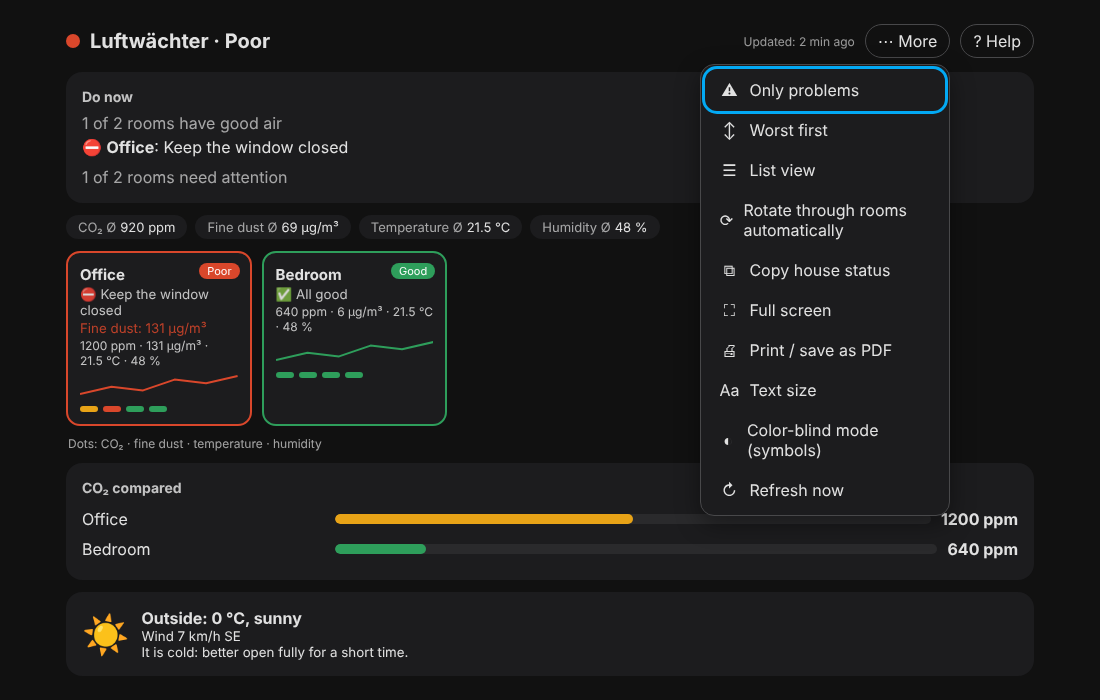
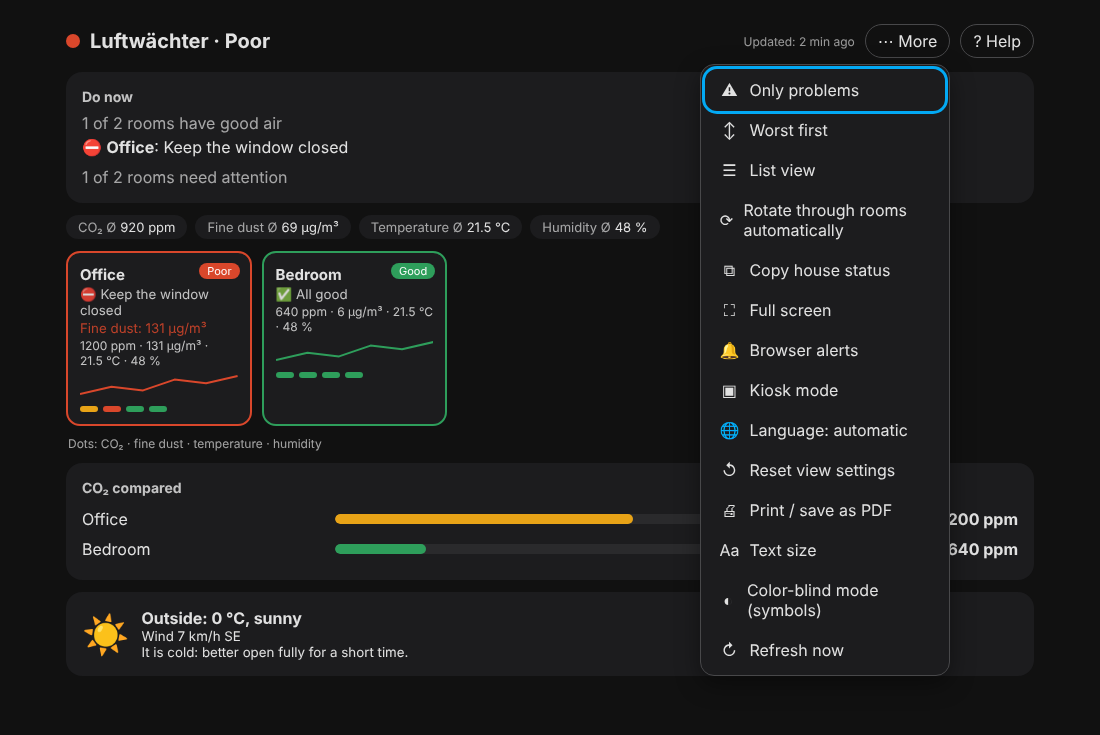
0.12.0: kiosk mode, browser alerts, language choice, reset view, storage fallback, worst-room sensor, foldable FAQ, CITATION
Claude-Session: https://claude.ai/code/session_01W38UNCWRvMYfcRr6jVyi8m

diff --git a/custom_components/luftwaechter/frontend/luftwaechter-panel.js b/custom_components/luftwaechter/frontend/luftwaechter-panel.js
@@ -11,7 +11,7 @@ const UI = {
     cover_open: "Auf", cover_stop: "Stopp", cover_close: "Zu", allgood: "Alle Werte im grünen Bereich.",
     isPoor: "ist schlecht", isFair: "ist mittel", tooHigh: "zu hoch", tooLow: "zu niedrig", limit: "Grenze",
     attention: "Jetzt tun", nothing: "Nichts zu tun, alles in Ordnung.", rooms_n: "{a} von {n} Räumen brauchen Aufmerksamkeit", stale: "Die Daten sind möglicherweise veraltet (letztes Update vor {n} min).",
-    goodOf: "{g} von {n} Räumen haben gute Luft", print: "Drucken / als PDF speichern", kTitle: "Tastenkürzel", kRoom: "Raum wechseln", kBack: "Zurück", kSearch: "Suchen", kSort: "Sortieren", kPin: "Raum anheften", kOnly: "Nur Probleme", kList: "Listenansicht", kCopy: "Hausübersicht kopieren", kMenu: "Menü", kRot: "Räume durchschalten", kFs: "Vollbild", kHelp: "Hilfe", swiped: "Wischen wechselt den Raum", size: "Textgröße", onbTitle: "So kommen Räume ins Panel", onb1: "Weise CO₂-, Feinstaub-, Temperatur- oder Luftfeuchte-Sensoren einem Bereich zu (Einstellungen → Bereiche).", onb2: "Der Raum erscheint automatisch, sobald ein Sensor Werte liefert.", onb3: "Optional: Gib einem Fenstersensor die Geräteklasse „Fenster“, dann bekommst du Lüftungsempfehlungen.", noHouse: "Die Integration Luftwächter wurde nicht gefunden. Einstellungen → Geräte & Dienste → Integration hinzufügen → Luftwächter.", legend: "Punkte: CO₂ · Feinstaub · Temperatur · Luftfeuchte", avgT: "Ø im Haus", ventStart: "Lüftungs-Timer starten ({n} min)", ventRun: "Lüften läuft", ventDone: "Zeit ist um: Fenster jetzt schließen", ventStop: "Abbrechen", fs: "Vollbild", fsExit: "Vollbild beenden", copyAll: "Hausstatus kopieren", trendUp: "Steigend", trendDown: "Fallend", onlyProblems: "Nur Probleme", rank: "CO₂ im Vergleich", rotate: "Räume automatisch durchschalten", csv: "CSV", shortcuts: "Tastatur: ← → Raum wechseln · Esc zurück · / suchen · S sortieren · P anheften · O nur Probleme · V Listenansicht · M Menü · R durchschalten · F Vollbild · H Hilfe", search: "Raum suchen…", noMatch: "Kein Raum gefunden.", listView: "Listenansicht", tileView: "Kachelansicht", soundOn: "Signalton bei Ablauf: an", soundOff: "Signalton bei Ablauf: aus", copyLink: "Link kopieren", mold: "Schimmelgefahr", dew: "Taupunkt", more: "Mehr", refreshNow: "Jetzt aktualisieren", cbMode: "Farbenblind-Modus (Symbole)", sinceFor: "{l} seit {t}", sortCo2: "Höchstes CO₂ zuerst", pin: "Oben anheften", unpin: "Nicht mehr anheften", pinned: "Angeheftet", copy: "Status kopieren", copied: "Kopiert", r6h: "6 h", r24h: "24 h", r7d: "7 Tage", a6h: "vor 6 h", a24h: "vor 24 h", a7d: "vor 7 Tagen", dayU: "Tg", hourU: "h",
+    alerts: "Browser-Hinweise", alertsOn: "Browser-Hinweise: an", alertsDenied: "Browser-Hinweise sind im Browser blockiert", alertBody: "{r}: {l}", kiosk: "Kiosk-Modus", kioskOff: "Kiosk-Modus beenden", langOpt: "Sprache", langAuto: "automatisch", resetView: "Ansicht zurücksetzen", goodOf: "{g} von {n} Räumen haben gute Luft", print: "Drucken / als PDF speichern", kTitle: "Tastenkürzel", kRoom: "Raum wechseln", kBack: "Zurück", kSearch: "Suchen", kSort: "Sortieren", kPin: "Raum anheften", kOnly: "Nur Probleme", kList: "Listenansicht", kCopy: "Hausübersicht kopieren", kMenu: "Menü", kRot: "Räume durchschalten", kFs: "Vollbild", kHelp: "Hilfe", swiped: "Wischen wechselt den Raum", size: "Textgröße", onbTitle: "So kommen Räume ins Panel", onb1: "Weise CO₂-, Feinstaub-, Temperatur- oder Luftfeuchte-Sensoren einem Bereich zu (Einstellungen → Bereiche).", onb2: "Der Raum erscheint automatisch, sobald ein Sensor Werte liefert.", onb3: "Optional: Gib einem Fenstersensor die Geräteklasse „Fenster“, dann bekommst du Lüftungsempfehlungen.", noHouse: "Die Integration Luftwächter wurde nicht gefunden. Einstellungen → Geräte & Dienste → Integration hinzufügen → Luftwächter.", legend: "Punkte: CO₂ · Feinstaub · Temperatur · Luftfeuchte", avgT: "Ø im Haus", ventStart: "Lüftungs-Timer starten ({n} min)", ventRun: "Lüften läuft", ventDone: "Zeit ist um: Fenster jetzt schließen", ventStop: "Abbrechen", fs: "Vollbild", fsExit: "Vollbild beenden", copyAll: "Hausstatus kopieren", trendUp: "Steigend", trendDown: "Fallend", onlyProblems: "Nur Probleme", rank: "CO₂ im Vergleich", rotate: "Räume automatisch durchschalten", csv: "CSV", shortcuts: "Tastatur: ← → Raum wechseln · Esc zurück · / suchen · S sortieren · P anheften · O nur Probleme · V Listenansicht · M Menü · R durchschalten · F Vollbild · H Hilfe", search: "Raum suchen…", noMatch: "Kein Raum gefunden.", listView: "Listenansicht", tileView: "Kachelansicht", soundOn: "Signalton bei Ablauf: an", soundOff: "Signalton bei Ablauf: aus", copyLink: "Link kopieren", mold: "Schimmelgefahr", dew: "Taupunkt", more: "Mehr", refreshNow: "Jetzt aktualisieren", cbMode: "Farbenblind-Modus (Symbole)", sinceFor: "{l} seit {t}", sortCo2: "Höchstes CO₂ zuerst", pin: "Oben anheften", unpin: "Nicht mehr anheften", pinned: "Angeheftet", copy: "Status kopieren", copied: "Kopiert", r6h: "6 h", r24h: "24 h", r7d: "7 Tage", a6h: "vor 6 h", a24h: "vor 24 h", a7d: "vor 7 Tagen", dayU: "Tg", hourU: "h",
     helpTitle: "Was bedeuten die Messwerte?", causes: "Mögliche Ursachen", todo: "Was hilft",
     hCo2: "CO₂ (Kohlendioxid) zeigt, wie verbraucht die Raumluft ist. Wir atmen es aus.",
     cCo2: "Viele Personen im Raum, Schlafen bei geschlossenem Fenster, kleine Räume, geschlossene Türen, Kerzen oder Gasflammen.",
@@ -36,7 +36,7 @@ const UI = {
     cover_open: "Open", cover_stop: "Stop", cover_close: "Close", allgood: "All readings are in the green.",
     isPoor: "is poor", isFair: "is fair", tooHigh: "too high", tooLow: "too low", limit: "Limit",
     attention: "Do now", nothing: "Nothing to do, all good.", rooms_n: "{a} of {n} rooms need attention", stale: "Data may be outdated (last update {n} min ago).",
-    goodOf: "{g} of {n} rooms have good air", print: "Print / save as PDF", kTitle: "Keyboard shortcuts", kRoom: "Switch room", kBack: "Back", kSearch: "Search", kSort: "Sort", kPin: "Pin room", kOnly: "Only problems", kList: "List view", kCopy: "Copy house summary", kMenu: "Menu", kRot: "Rotate rooms", kFs: "Full screen", kHelp: "Help", swiped: "Swipe to change room", size: "Text size", onbTitle: "How rooms get into the panel", onb1: "Assign CO₂, fine dust, temperature or humidity sensors to an area (Settings → Areas).", onb2: "The room appears automatically as soon as a sensor reports values.", onb3: "Optional: give a window sensor the device class \"window\" to get ventilation advice.", noHouse: "The Luftwächter integration was not found. Settings → Devices & services → Add integration → Luftwächter.", legend: "Dots: CO₂ · fine dust · temperature · humidity", avgT: "House average", ventStart: "Start ventilation timer ({n} min)", ventRun: "Ventilating", ventDone: "Time is up: close the window now", ventStop: "Cancel", fs: "Full screen", fsExit: "Exit full screen", copyAll: "Copy house status", trendUp: "Rising", trendDown: "Falling", onlyProblems: "Only problems", rank: "CO₂ compared", rotate: "Rotate through rooms automatically", csv: "CSV", shortcuts: "Keyboard: ← → switch room · Esc back · / search · S sort · P pin · O only problems · V list view · M menu · R rotate · F full screen · H help", search: "Find a room…", noMatch: "No room found.", listView: "List view", tileView: "Tile view", soundOn: "Sound when time is up: on", soundOff: "Sound when time is up: off", copyLink: "Copy link", mold: "Mold risk", dew: "Dew point", more: "More", refreshNow: "Refresh now", cbMode: "Color-blind mode (symbols)", sinceFor: "{l} for {t}", sortCo2: "Highest CO₂ first", pin: "Pin to top", unpin: "Unpin", pinned: "Pinned", copy: "Copy status", copied: "Copied", r6h: "6 h", r24h: "24 h", r7d: "7 days", a6h: "6 h ago", a24h: "24 h ago", a7d: "7 days ago", dayU: "d", hourU: "h",
+    alerts: "Browser alerts", alertsOn: "Browser alerts: on", alertsDenied: "Browser alerts are blocked in the browser", alertBody: "{r}: {l}", kiosk: "Kiosk mode", kioskOff: "Leave kiosk mode", langOpt: "Language", langAuto: "automatic", resetView: "Reset view settings", goodOf: "{g} of {n} rooms have good air", print: "Print / save as PDF", kTitle: "Keyboard shortcuts", kRoom: "Switch room", kBack: "Back", kSearch: "Search", kSort: "Sort", kPin: "Pin room", kOnly: "Only problems", kList: "List view", kCopy: "Copy house summary", kMenu: "Menu", kRot: "Rotate rooms", kFs: "Full screen", kHelp: "Help", swiped: "Swipe to change room", size: "Text size", onbTitle: "How rooms get into the panel", onb1: "Assign CO₂, fine dust, temperature or humidity sensors to an area (Settings → Areas).", onb2: "The room appears automatically as soon as a sensor reports values.", onb3: "Optional: give a window sensor the device class \"window\" to get ventilation advice.", noHouse: "The Luftwächter integration was not found. Settings → Devices & services → Add integration → Luftwächter.", legend: "Dots: CO₂ · fine dust · temperature · humidity", avgT: "House average", ventStart: "Start ventilation timer ({n} min)", ventRun: "Ventilating", ventDone: "Time is up: close the window now", ventStop: "Cancel", fs: "Full screen", fsExit: "Exit full screen", copyAll: "Copy house status", trendUp: "Rising", trendDown: "Falling", onlyProblems: "Only problems", rank: "CO₂ compared", rotate: "Rotate through rooms automatically", csv: "CSV", shortcuts: "Keyboard: ← → switch room · Esc back · / search · S sort · P pin · O only problems · V list view · M menu · R rotate · F full screen · H help", search: "Find a room…", noMatch: "No room found.", listView: "List view", tileView: "Tile view", soundOn: "Sound when time is up: on", soundOff: "Sound when time is up: off", copyLink: "Copy link", mold: "Mold risk", dew: "Dew point", more: "More", refreshNow: "Refresh now", cbMode: "Color-blind mode (symbols)", sinceFor: "{l} for {t}", sortCo2: "Highest CO₂ first", pin: "Pin to top", unpin: "Unpin", pinned: "Pinned", copy: "Copy status", copied: "Copied", r6h: "6 h", r24h: "24 h", r7d: "7 days", a6h: "6 h ago", a24h: "24 h ago", a7d: "7 days ago", dayU: "d", hourU: "h",
     helpTitle: "What do the readings mean?", causes: "Possible causes", todo: "What helps",
     hCo2: "CO₂ (carbon dioxide) shows how stale the room air is. We breathe it out.",
     cCo2: "Many people in the room, sleeping with the window closed, small rooms, closed doors, candles or gas flames.",
@@ -66,9 +66,11 @@ const SCALE = {
 };
 const rooms_ok = (el) => el._rooms().length > 1;
 const esc = (s) => String(s ?? "").replace(/[&<>"']/g, (c) => ({ "&": "&amp;", "<": "&lt;", ">": "&gt;", '"': "&quot;", "'": "&#39;" }[c]));
+const mem = {}; // fallback when the browser blocks localStorage (private window, kiosk profile): settings then last until the page closes
 const store = {
-  get(k) { try { return localStorage.getItem(k); } catch (e) { return null; } },
-  set(k, v) { try { localStorage.setItem(k, v); } catch (e) { /* ignore */ } },
+  get(k) { try { const v = localStorage.getItem(k); if (v !== null) return v; } catch (e) { /* use memory */ } return k in mem ? mem[k] : null; },
+  set(k, v) { mem[k] = v; try { localStorage.setItem(k, v); } catch (e) { /* memory only */ } },
+  remove(k) { delete mem[k]; try { localStorage.removeItem(k); } catch (e) { /* ignore */ } },
 };
 
 class LuftwaechterPanel extends HTMLElement {
@@ -82,6 +84,7 @@ class LuftwaechterPanel extends HTMLElement {
     this._chartKey = "co2";
     this._range = store.get("lw_range") || "24h";
     this._size = parseInt(store.get("lw_size") || "1", 10);
+    this._alerts = store.get("lw_alerts") === "1"; this._kiosk = store.get("lw_kiosk") === "1" || /kiosk/.test(location.hash);
     this._only = store.get("lw_only") === "1";
     this._list = store.get("lw_list") === "1"; this._snd = store.get("lw_snd") === "1"; this._q = ""; this._cb = store.get("lw_cb") === "1"; try { this._pins = JSON.parse(store.get("lw_pins") || "[]"); } catch (e) { this._pins = []; } if (!Array.isArray(this._pins)) this._pins = []; this._menu = false;
     this._help = false;
@@ -125,8 +128,16 @@ class LuftwaechterPanel extends HTMLElement {
     return [ov && many ? b("only", "⚠", t.onlyProblems, this._only) : "", ov && many ? b("sort", "↕", this._sortLabel(t)) : "",
       ov && many ? b("dens", this._list ? "▦" : "☰", this._list ? t.tileView : t.listView) : "", many ? b("rot", "⟳", t.rotate, this._rot) : "",
       ov && rooms.length ? b("copyall", "⧉", t.copyAll) : "", document.fullscreenEnabled ? b("fs", fs ? "🗗" : "⛶", fs ? t.fsExit : t.fs) : "",
-      b("print", "🖨", t.print), b("size", "Aa", t.size), b("cb", "◐", t.cbMode, this._cb), b("refresh", "↻", t.refreshNow)].join("");
+      b("alerts", "🔔", this._alerts ? t.alertsOn : (this._alertDenied ? t.alertsDenied : t.alerts), this._alerts), b("kiosk", "▣", this._kiosk ? t.kioskOff : t.kiosk, this._kiosk), b("lang", "🌐", `${t.langOpt}: ${(store.get("lw_lang") || "").toUpperCase() || t.langAuto}`), b("reset", "↺", t.resetView), b("print", "🖨", t.print), b("size", "Aa", t.size), b("cb", "◐", t.cbMode, this._cb), b("refresh", "↻", t.refreshNow)].join("");
   }
+  _cycleLang() { const o = store.get("lw_lang") || ""; const n = { "": "de", de: "en", en: "" }[o] ?? ""; store.set("lw_lang", n); this._render(); }
+  _setKiosk(on) { this._kiosk = on; store.set("lw_kiosk", on ? "1" : "0"); if (on) { this._size = 2; if (!this._rot && this._rooms().length > 1) { this._rotToggle(); return; } } else { this._size = parseInt(store.get("lw_size") || "1", 10); this._rotStop(); return; } this._render(); }
+  async _toggleAlerts() {
+    if (this._alerts) { this._alerts = false; store.set("lw_alerts", "0"); this._render(); return; }
+    try { const p = typeof Notification === "undefined" ? "denied" : (Notification.permission === "default" ? await Notification.requestPermission() : Notification.permission); this._alerts = p === "granted"; } catch (e) { this._alerts = false; }
+    store.set("lw_alerts", this._alerts ? "1" : "0"); if (!this._alerts) this._alertDenied = true; this._render();
+  }
+  _resetView() { ["lw_size", "lw_sort", "lw_pins", "lw_only", "lw_list", "lw_cb", "lw_lang", "lw_alerts", "lw_kiosk", "lw_room"].forEach((k) => store.remove(k)); this._size = 1; this._sort = "worst"; this._pins = []; this._only = false; this._list = false; this._cb = false; this._alerts = false; this._kiosk = false; this._sel = null; this._menu = false; this._rotStop(); }
   _nextSort() { this._sort = { worst: "name", name: "co2" }[this._sort] || "worst"; store.set("lw_sort", this._sort); this._render(); }
   _pin(key) { const i = this._pins.indexOf(key); if (i < 0) this._pins.push(key); else this._pins.splice(i, 1); store.set("lw_pins", JSON.stringify(this._pins)); this._render(); }
   _sortLabel(t) { return this._sort === "worst" ? t.sortWorst : this._sort === "co2" ? t.sortCo2 : t.sortName; }
@@ -175,7 +186,7 @@ class LuftwaechterPanel extends HTMLElement {
     if (!st) return null;
     return Object.values(st).find((s) => s.entity_id.startsWith("sensor.") && s.attributes && Array.isArray(s.attributes.rooms) && s.attributes.summary) || null;
   }
-  _lang() { const e = this._house(), srv = ((e && e.attributes.lang) || "en").slice(0, 2), mine = ((this._hass && this._hass.language) || "").slice(0, 2); return UI[mine] ? mine : (UI[srv] ? srv : "en"); }
+  _lang() { const ov = store.get("lw_lang"); if (ov && UI[ov]) return ov; const e = this._house(), srv = ((e && e.attributes.lang) || "en").slice(0, 2), mine = ((this._hass && this._hass.language) || "").slice(0, 2); return UI[mine] ? mine : (UI[srv] ? srv : "en"); }
   _attrs() { const e = this._house(); if (!e) return {}; const a = e.attributes, l = this._lang(); return l !== a.lang && a.alt && a.alt[l] ? Object.assign({}, a, a.alt[l], { lang: l }) : a; }
   _t() { return UI[this._lang()] || UI.en; }
   _lim(k) { const l = this._attrs().limits || {}; if (k === "co2" && l.co2) return `< ${l.co2[0]} / < ${l.co2[1]} ppm`; if (k === "pm25" && l.pm25) return `< ${l.pm25[0]} / < ${l.pm25[1]} µg/m³`; return LIM[k]; }
@@ -217,6 +228,7 @@ class LuftwaechterPanel extends HTMLElement {
       if (k === "p" && this._sel) { this._pin(this._sel); return; }
       if (k === "o" && !this._sel) { this._only = !this._only; store.set("lw_only", this._only ? "1" : "0"); this._render(); return; }
       if (k === "/" && !this._sel) { const qi = this.shadowRoot.querySelector("#q"); if (qi) { ev.preventDefault(); qi.focus(); return; } }
+      if (k === "k") { this._setKiosk(!this._kiosk); return; }
       if (k === "c" && !this._sel) { this.shadowRoot.querySelector("#copyall")?.click(); return; }
       if (k === "m") { this._toggleMenu(); return; }
       if (k === "v" && !this._sel) { this._list = !this._list; store.set("lw_list", this._list ? "1" : "0"); this._render(); return; }
@@ -417,6 +429,7 @@ header{position:sticky;top:0;z-index:5;background:var(--primary-background-color
 @media (forced-colors:active){.tile{border:2px solid CanvasText!important}}
 @media (prefers-reduced-motion:reduce){*{animation:none!important;transition:none!important;scroll-behavior:auto!important}}
 .keys table{border-collapse:collapse;width:100%}.keys th{text-align:left;white-space:nowrap;padding:3px 10px 3px 0;font-weight:400}.keys td{padding:3px 0}kbd{font:inherit;font-size:.85em;border:1px solid var(--divider-color,#8886);border-radius:5px;padding:1px 6px;background:var(--card-background-color,#f4f6f8)}
+.kiosk header .tool{opacity:.3}.kiosk header .tool:hover,.kiosk header .tool:focus-visible{opacity:1}.kiosk #help,.kiosk #ventpill,.kiosk #q{display:none}
 @media print{.menuwrap,.tool,.back,#ovl,.chips{display:none!important}.wrap{max-width:none}}
 @media (prefers-reduced-motion:no-preference){.tile,.dev,.chip{transition:filter .15s}}`;
     if (!e) { const has = this._hass && this._hass.states && Object.keys(this._hass.states).length > 5; root.innerHTML = `<style>${css}</style><div class="wrap" role="main">${has ? `<div class="card">${esc(t.noHouse)}</div>` : "<p>…</p>"}</div>`; return; }
@@ -459,7 +472,11 @@ header{position:sticky;top:0;z-index:5;background:var(--primary-background-color
     root.appendChild(this._live);
     const lv = {}; rooms.forEach((r) => { lv[r.key] = r.level; });
     if (this._lvPrev) { const ch = rooms.filter((r) => this._lvPrev[r.key] && this._lvPrev[r.key] !== r.level); if (ch.length) this._live.textContent = ch.map((r) => `${r.name}: ${t[r.level] || t.unknown}`).join(". "); }
+    if (this._alerts && this._lvPrev && document.hidden && typeof Notification !== "undefined" && Notification.permission === "granted") {
+      rooms.filter((r) => r.level === "poor" && this._lvPrev[r.key] && this._lvPrev[r.key] !== "poor").forEach((r) => { try { new Notification("Luftwächter", { body: t.alertBody.replace("{r}", r.name).replace("{l}", t.poor || "Poor"), tag: "lw-" + r.key }); } catch (er) { /* ignore */ } });
+    }
     this._lvPrev = lv;
+    this.shadowRoot.querySelector(".wrap")?.classList.toggle("kiosk", !!this._kiosk);
     const wrap = q(".wrap");
     if (wrap && sel && rooms.length > 1) {
       let x0 = null, y0 = 0;
@@ -483,6 +500,10 @@ header{position:sticky;top:0;z-index:5;background:var(--primary-background-color
     q("#more")?.addEventListener("click", () => this._toggleMenu());
     q("#menu")?.addEventListener("click", () => { this._menu = false; }, true);
     q("#cb")?.addEventListener("click", () => { this._cb = !this._cb; store.set("lw_cb", this._cb ? "1" : "0"); this._render(); });
+    q("#alerts")?.addEventListener("click", () => this._toggleAlerts());
+    q("#kiosk")?.addEventListener("click", () => { this._toggleMenu(false); this._setKiosk(!this._kiosk); });
+    q("#lang")?.addEventListener("click", () => this._cycleLang());
+    q("#reset")?.addEventListener("click", () => { this._resetView(); this._render(); });
     q("#print")?.addEventListener("click", () => { this._toggleMenu(false); try { window.print(); } catch (e) { /* ignore */ } });
     q("#refresh")?.addEventListener("click", () => { try { this._hass.callService("luftwaechter", "refresh", {}); } catch (e) { /* ignore */ } });
     q("#dens")?.addEventListener("click", () => { this._list = !this._list; store.set("lw_list", this._list ? "1" : "0"); this._render(); });

diff --git a/tests/panel.spec.py b/tests/panel.spec.py
@@ -177,6 +177,15 @@ with sync_playwright() as p:
     assert "rooms have good air" in pg.evaluate("el.shadowRoot.querySelector('.goodof').textContent") and "·" in pg.evaluate("el.shadowRoot.querySelector('.tile').title")
     assert pg.evaluate("el.shadowRoot.querySelector('[aria-live=polite]') !== null") and pg.evaluate("el.shadowRoot.querySelector('#print') !== null")
     pg.evaluate("() => { window.__printed = 0; window.print = () => { window.__printed++; }; el.shadowRoot.querySelector('#print').click(); }"); assert pg.evaluate("window.__printed") == 1
+    # language override, kiosk mode, reset, alerts item
+    pg.evaluate("el._cycleLang()"); assert "Jetzt tun" in txt()
+    pg.evaluate("el._cycleLang()"); assert "Do now" in txt() or "Do it now" in txt() or "Jetzt tun" not in txt()
+    pg.evaluate("el._cycleLang()"); assert "Jetzt tun" not in txt() and pg.evaluate("el._lang()") == "en"
+    pg.keyboard.press("k"); assert pg.evaluate("el._kiosk") is True and pg.evaluate("el.shadowRoot.querySelector('.wrap').classList.contains('kiosk')") is True
+    pg.keyboard.press("k"); assert pg.evaluate("el._kiosk") is False and pg.evaluate("el._rot") is False
+    assert pg.evaluate("el.shadowRoot.querySelector('#alerts') !== null && el.shadowRoot.querySelector('#kiosk') !== null && el.shadowRoot.querySelector('#reset') !== null")
+    pg.evaluate("() => { el._pins = ['x']; el._cycleLang(); el.shadowRoot.querySelector('#reset').click(); }")
+    assert pg.evaluate("el._pins.length") == 0 and "Jetzt tun" not in txt() and pg.evaluate("el._lang()") == "en"
     assert pg.evaluate("document.title").startswith("Luftwächter")
     pg.evaluate("el._select(el._rooms()[0].key)"); r0 = pg.evaluate("el._sel")
     pg.evaluate("""() => { const w = el.shadowRoot.querySelector('.wrap'); const ev = (t, x) => w.dispatchEvent(new PointerEvent(t, { pointerType: 'touch', clientX: x, clientY: 200, bubbles: true })); ev('pointerdown', 300); ev('pointerup', 120); }""")

diff --git a/custom_components/luftwaechter/sensor.py b/custom_components/luftwaechter/sensor.py
@@ -33,7 +33,7 @@ async def async_setup_entry(hass: HomeAssistant, entry: ConfigEntry, async_add_e
         if new:
             async_add_entities(new)
 
-    async_add_entities([HouseSensor(coord, entry), GoodRoomsSensor(coord, entry)])
+    async_add_entities([HouseSensor(coord, entry), GoodRoomsSensor(coord, entry), WorstRoomSensor(coord, entry)])
     _add()
     entry.async_on_unload(coord.async_add_listener(_add))
 
@@ -86,6 +86,27 @@ class GoodRoomsSensor(CoordinatorEntity[LuftwaechterCoordinator], SensorEntity):
     def extra_state_attributes(self) -> dict:
         d = self.coordinator.data or {}
         return {"good": d.get("good", 0), "total": d.get("total", 0)}
+
+
+class WorstRoomSensor(CoordinatorEntity[LuftwaechterCoordinator], SensorEntity):
+    """Name of the room with the worst air; handy for voice and dashboards."""
+
+    _attr_has_entity_name = False
+    _attr_name = "Luftwächter Worst room"
+
+    def __init__(self, coord: LuftwaechterCoordinator, entry: ConfigEntry) -> None:
+        super().__init__(coord)
+        self._attr_unique_id = f"{entry.entry_id}_worst_room"
+        self._attr_device_info = _device(entry)
+
+    @property
+    def native_value(self) -> str | None:
+        return (self.coordinator.data or {}).get("worst_room") or None
+
+    @property
+    def extra_state_attributes(self) -> dict:
+        d = self.coordinator.data or {}
+        return {"level": d.get("level", "unknown"), "attention": d.get("attention", 0)}
 
 
 class RoomSensor(CoordinatorEntity[LuftwaechterCoordinator], SensorEntity):

diff --git a/tests/test_integration.py b/tests/test_integration.py
@@ -182,3 +182,9 @@ async def test_room_ventilate_binary_sensor(hass, enable_custom_integrations):
     await hass.data[DOMAIN][entry.entry_id].async_refresh()
     await hass.async_block_till_done()
     assert hass.states.get("binary_sensor.luftwachter_office_ventilate").state == "off"
+
+
+async def test_worst_room_sensor(hass, enable_custom_integrations):
+    await _setup(hass, co2="1900")
+    s = hass.states.get("sensor.luftwachter_worst_room")
+    assert s is not None and s.state == "Office" and s.attributes["level"] == "poor"

diff --git a/custom_components/luftwaechter/__init__.py b/custom_components/luftwaechter/__init__.py
@@ -15,7 +15,7 @@ from .coordinator import LuftwaechterCoordinator
 
 PLATFORMS = ["sensor", "binary_sensor"]
 CONFIG_SCHEMA = cv.config_entry_only_config_schema(DOMAIN)
-_VERSION = "0.11.0"
+_VERSION = "0.12.0"
 
 
 async def async_setup(hass: HomeAssistant, config: ConfigType) -> bool:

diff --git a/README.md b/README.md
@@ -30,6 +30,8 @@ Companion to the [Luftwächter Windows widget](https://github.com/DanStasiak/air
 Questions? See [SUPPORT.md](SUPPORT.md).
 
 ## Features
+- **Browser alerts (opt-in):** More → *Browser alerts* shows a notification when a room turns poor while the tab is in the background.
+- **Your own language and a reset:** More → *Language* overrides the profile language for this browser; *Reset view settings* clears pins, sort, size and the rest.
 - **Screen-reader friendly:** level changes are announced politely, tiles have tooltips with the full advice, everything works by keyboard.
 - **Do-now overview**: which rooms need attention, worst first, with a coloured dot per reading on every tile.
 - **Room view**: status badge, "what stands out" with the limits, gauge bars, 24 h / 6 h / 7 day history charts with hover readout.
@@ -130,6 +132,7 @@ The room level is the worst of the four.
 |---|---|---|
 | `sensor.luftwachter_<room>` | good / fair / poor | action, headline, detail, window, trend, since, mold, dew, values, devices, sources |
 | `sensor.luftwachter_house` | worst level | rooms, outside, limits, updated, attention, attention_rooms, worst_room |
+| `sensor.luftwachter_worst_room` | name of the room with the worst air | level, attention |
 | `sensor.luftwachter_good_rooms` | share of rooms with good air, % | good, total |
 | `binary_sensor.luftwachter_<room>_ventilate` | on while the advice for the room is "open the window" | room, headline, level |
 | `binary_sensor.luftwachter_attention` | on while a room is poor or advises opening / waiting | count, rooms, worst_room |
@@ -173,6 +176,7 @@ Prefer clicks to YAML? Import the blueprint and pick the level, an optional room
 - **Download diagnostics** (device page, three dots) gives a compact, anonymous report for bug reports: levels, readings, sources and device ids, no names of people or accounts.
 
 ## Wall tablet tips
+- **Kiosk mode** (key **K** or More → *Kiosk mode*): biggest text size, rooms rotate by themselves, the buttons fade out (still there when you touch them). Open `https://<your-ha>/luftwaechter#kiosk` to start in kiosk mode.
 - Keyboard: ← → switch room, Esc back, **/** search, **S** sort (worst, name, highest CO₂), **P** pin a room, **O** only problems, **V** list view, **M** menu, **R** rotate rooms, **F** full screen, **H** help.
 - **Rotate** (⟳ button or **R**) steps through the rooms every 12 seconds; a tap stops it. In full screen the panel asks the tablet to keep the screen on.
 - The header stays visible while you scroll.
@@ -181,21 +185,54 @@ Prefer clicks to YAML? Import the blueprint and pick the level, an optional room
 - The panel warns when its data is older than 10 minutes, so a frozen tablet is visible.
 
 ## FAQ
-**Why is a room red when CO₂ is fine?** The room level is the worst of its readings. The tile names the reading that caused it.
 
-**Can I change the limits?** Yes, CO₂ and fine dust, under Configure (see Settings). Temperature and humidity use fixed comfort ranges.
+<details><summary><b>Why is a room red when CO₂ is fine?</b></summary>
 
-**What does the mold warning mean?** From 70 % relative humidity, mold can grow on cold surfaces such as outer walls. The tip is a guideline, not a measurement of mold; ventilate briefly and keep furniture off cold walls.
+The room level is the worst of its readings. The tile names the reading that caused it.
 
-**Can I use the panel if I cannot tell red from green?** Yes: turn on **Color-blind mode** in the **More** menu. Every reading then also shows a symbol (✓ fine, ! fair, ✕ poor).
+</details>
 
-**A room is missing. Why?** Rooms come from your areas: a room needs at least one CO₂, fine dust, temperature or humidity sensor assigned to an area. If no room is found for about 5 minutes, Home Assistant shows a hint under **Settings → Repairs**.
+<details><summary><b>Can I change the limits?</b></summary>
 
-**Do I need a window sensor?** No. With one (device class "window") you get "open / close the window" advice; without it you get ventilation advice only.
+Yes, CO₂ and fine dust, under Configure (see Settings). Temperature and humidity use fixed comfort ranges.
 
-**Does it send data anywhere?** No, see Privacy.
+</details>
 
-**Which languages?** English and German, chosen per user from the profile language.
+<details><summary><b>What does the mold warning mean?</b></summary>
+
+From 70 % relative humidity, mold can grow on cold surfaces such as outer walls. The tip is a guideline, not a measurement of mold; ventilate briefly and keep furniture off cold walls.
+
+</details>
+
+<details><summary><b>Can I use the panel if I cannot tell red from green?</b></summary>
+
+Yes: turn on **Color-blind mode** in the **More** menu. Every reading then also shows a symbol (✓ fine, ! fair, ✕ poor).
+
+</details>
+
+<details><summary><b>A room is missing. Why?</b></summary>
+
+Rooms come from your areas: a room needs at least one CO₂, fine dust, temperature or humidity sensor assigned to an area. If no room is found for about 5 minutes, Home Assistant shows a hint under **Settings → Repairs**.
+
+</details>
+
+<details><summary><b>Do I need a window sensor?</b></summary>
+
+No. With one (device class "window") you get "open / close the window" advice; without it you get ventilation advice only.
+
+</details>
+
+<details><summary><b>Does it send data anywhere?</b></summary>
+
+No, see Privacy.
+
+</details>
+
+<details><summary><b>Which languages?</b></summary>
+
+English and German, chosen per user from the profile language.
+
+</details>
 
 ## Troubleshooting
 - **No rooms in the panel**: the sensors must belong to an area (directly or through their device) and be CO₂ or PM2.5 sensors.

diff --git a/README.de.md b/README.de.md
@@ -50,6 +50,7 @@ Weise CO₂-, Feinstaub-, Temperatur- oder Feuchte-Sensoren einem **Bereich** zu
 |---|---|---|
 | `sensor.luftwachter_<raum>` | good / fair / poor | action, headline, detail, window, trend, since, mold, dew, values, devices |
 | `sensor.luftwachter_house` | schlechtester Wert | rooms, outside, limits, attention, attention_rooms, worst_room |
+| `sensor.luftwachter_worst_room` | Name des Raums mit der schlechtesten Luft | level, attention |
 | `sensor.luftwachter_good_rooms` | Anteil der Räume mit guter Luft, % | good, total |
 | `binary_sensor.luftwachter_<raum>_ventilate` | an, solange für den Raum „Fenster öffnen“ geraten wird | room, headline, level |
 | `binary_sensor.luftwachter_attention` | an, solange ein Raum schlecht ist oder Lüften/Warten rät | count, rooms, worst_room |
@@ -62,8 +63,11 @@ Zweiter Blueprint „Ans Lüften erinnern“: Lüften-Sensor eines Raums wählen
 
 [![Import blueprint](https://my.home-assistant.io/badges/blueprint_import.svg)](https://my.home-assistant.io/redirect/blueprint_import/?blueprint_url=https%3A%2F%2Fgithub.com%2FDanStasiak%2Fluftwaechter-ha%2Fblob%2Fmain%2Fblueprints%2Fautomation%2Fluftwaechter%2Fventilate_reminder.yaml)
 
+## Wandtablet
+**Kiosk-Modus** (Taste `K` oder Menü → „Kiosk-Modus“): größte Schrift, Räume wechseln automatisch, Knöpfe blenden aus. Direkt starten: `https://<dein-ha>/luftwaechter#kiosk`. Im Menü außerdem: Browser-Hinweise (wenn ein Raum schlecht wird), Sprache wählen, Ansicht zurücksetzen.
+
 ## Tastatur
-← → Raum wechseln · Esc zurück · `/` suchen · `S` sortieren (schlechtester, Name, CO₂) · `P` Raum anheften · `O` nur Probleme · `V` Listenansicht · `C` Hausübersicht kopieren · `M` Menü · `R` durchschalten · `F` Vollbild · `H` oder `?` Hilfe. Am Handy wischt du im Raum nach links oder rechts, um den Raum zu wechseln.
+← → Raum wechseln · Esc zurück · `/` suchen · `S` sortieren (schlechtester, Name, CO₂) · `P` Raum anheften · `O` nur Probleme · `V` Listenansicht · `C` Hausübersicht kopieren · `K` Kiosk-Modus · `M` Menü · `R` durchschalten · `F` Vollbild · `H` oder `?` Hilfe. Am Handy wischt du im Raum nach links oder rechts, um den Raum zu wechseln.
 
 ## Fehlersuche
 - **Panel zeigt noch alte Texte nach dem Update**: Browser-Seite hart neu laden (Strg + F5).

diff --git a/CHANGELOG.md b/CHANGELOG.md
@@ -1,5 +1,17 @@
 # Changelog
 
+## 0.12.0
+- **Kiosk mode** for wall tablets (key `K`, More menu, or `#kiosk` in the link): biggest text, rooms rotate by themselves, buttons fade out but stay reachable.
+- **Browser alerts** (opt-in, More menu): a notification when a room turns poor while the tab is in the background.
+- **Language** choice in the More menu (automatic, German, English) for this browser, independent of the profile language.
+- **Reset view settings** in the More menu clears pins, sort, size, list view, color-blind mode and the rest if the panel is ever stuck in a state you do not like.
+- Settings now keep working when the browser blocks local storage (private window, locked-down kiosk profile): they last until the page is closed instead of silently failing.
+- New sensor `sensor.luftwachter_worst_room`: the name of the room with the worst air, for voice assistants and dashboards.
+- README: the FAQ folds open and closed, kiosk and alerts are documented, English and German.
+- `CITATION.cff`, so GitHub shows "Cite this repository".
+- Tests: 34, plus panel checks for language override, kiosk, reset and the new menu entries.
+- DE: Kiosk-Modus für Wandtablets (Taste `K`), Browser-Hinweise (optional), Sprachwahl und „Ansicht zurücksetzen“ im Menü, Einstellungen funktionieren auch bei gesperrtem Speicher, neuer Sensor „Schlechtester Raum“, FAQ klappbar, `CITATION.cff`.
+
 ## 0.11.0
 - New binary sensor per room, `binary_sensor.luftwachter_<room>_ventilate`: on while the advice is "open the window". The simplest trigger for your own automations.
 - New blueprint "remind me to ventilate": pick the room's ventilate sensor, set how long the advice must last, choose the action. One-click import badge in the README.
